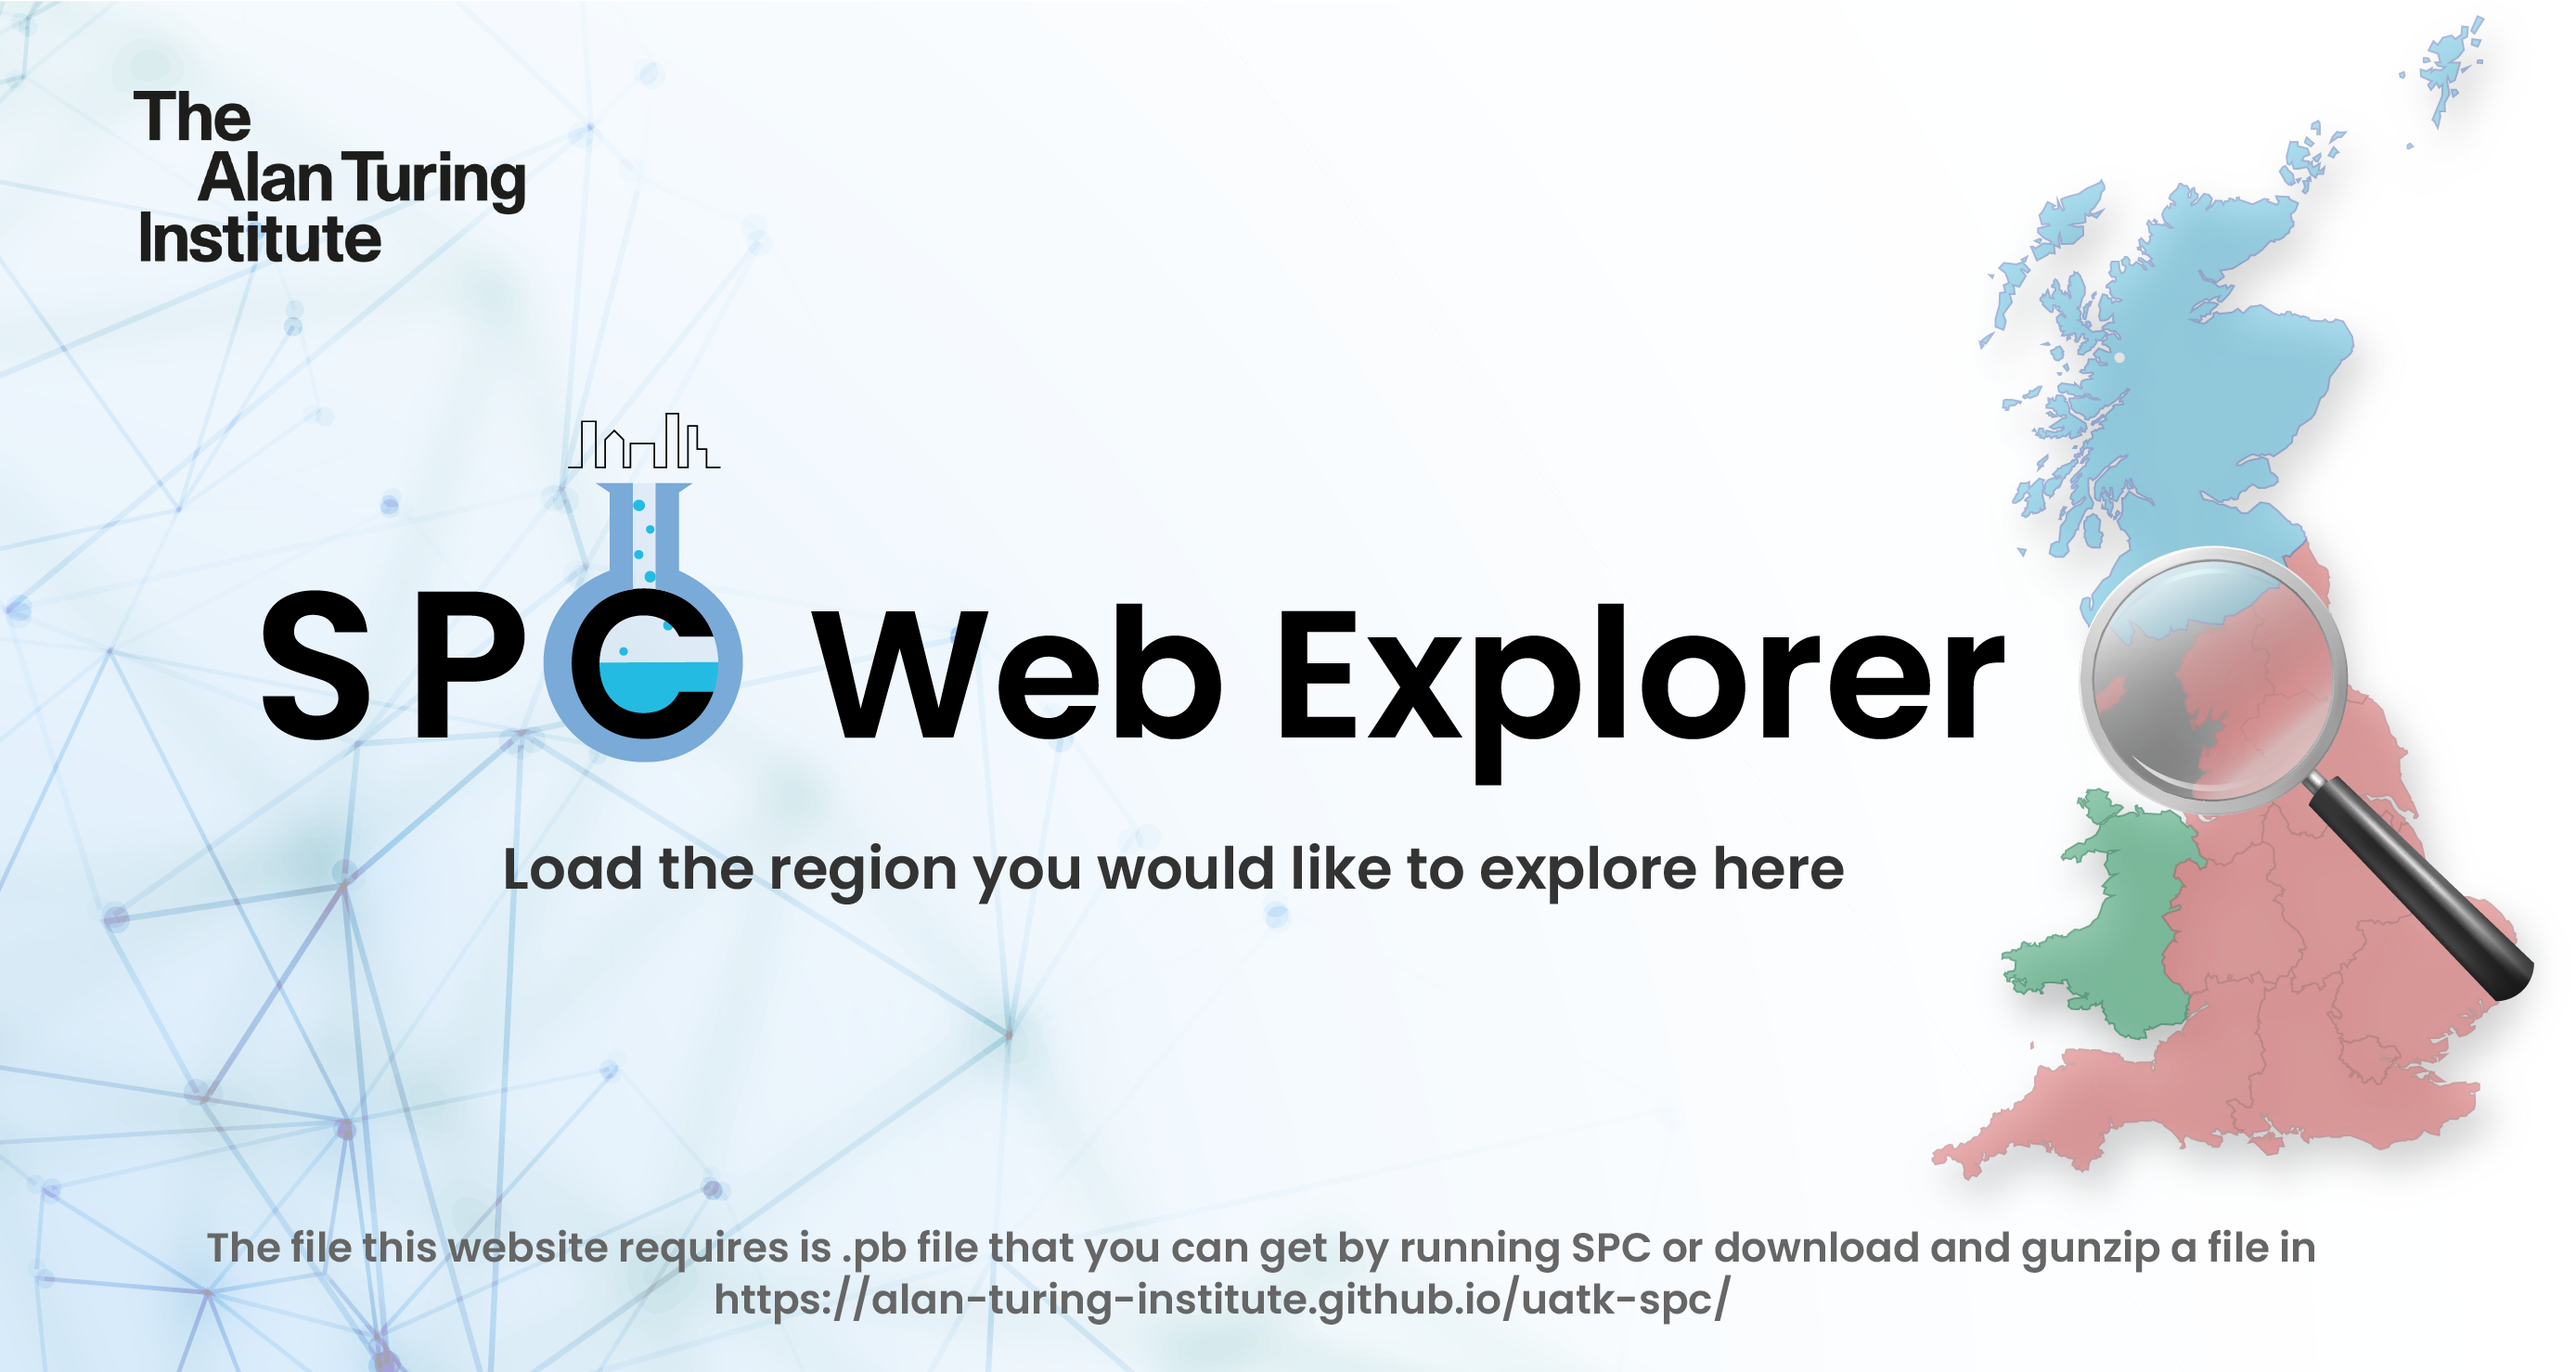
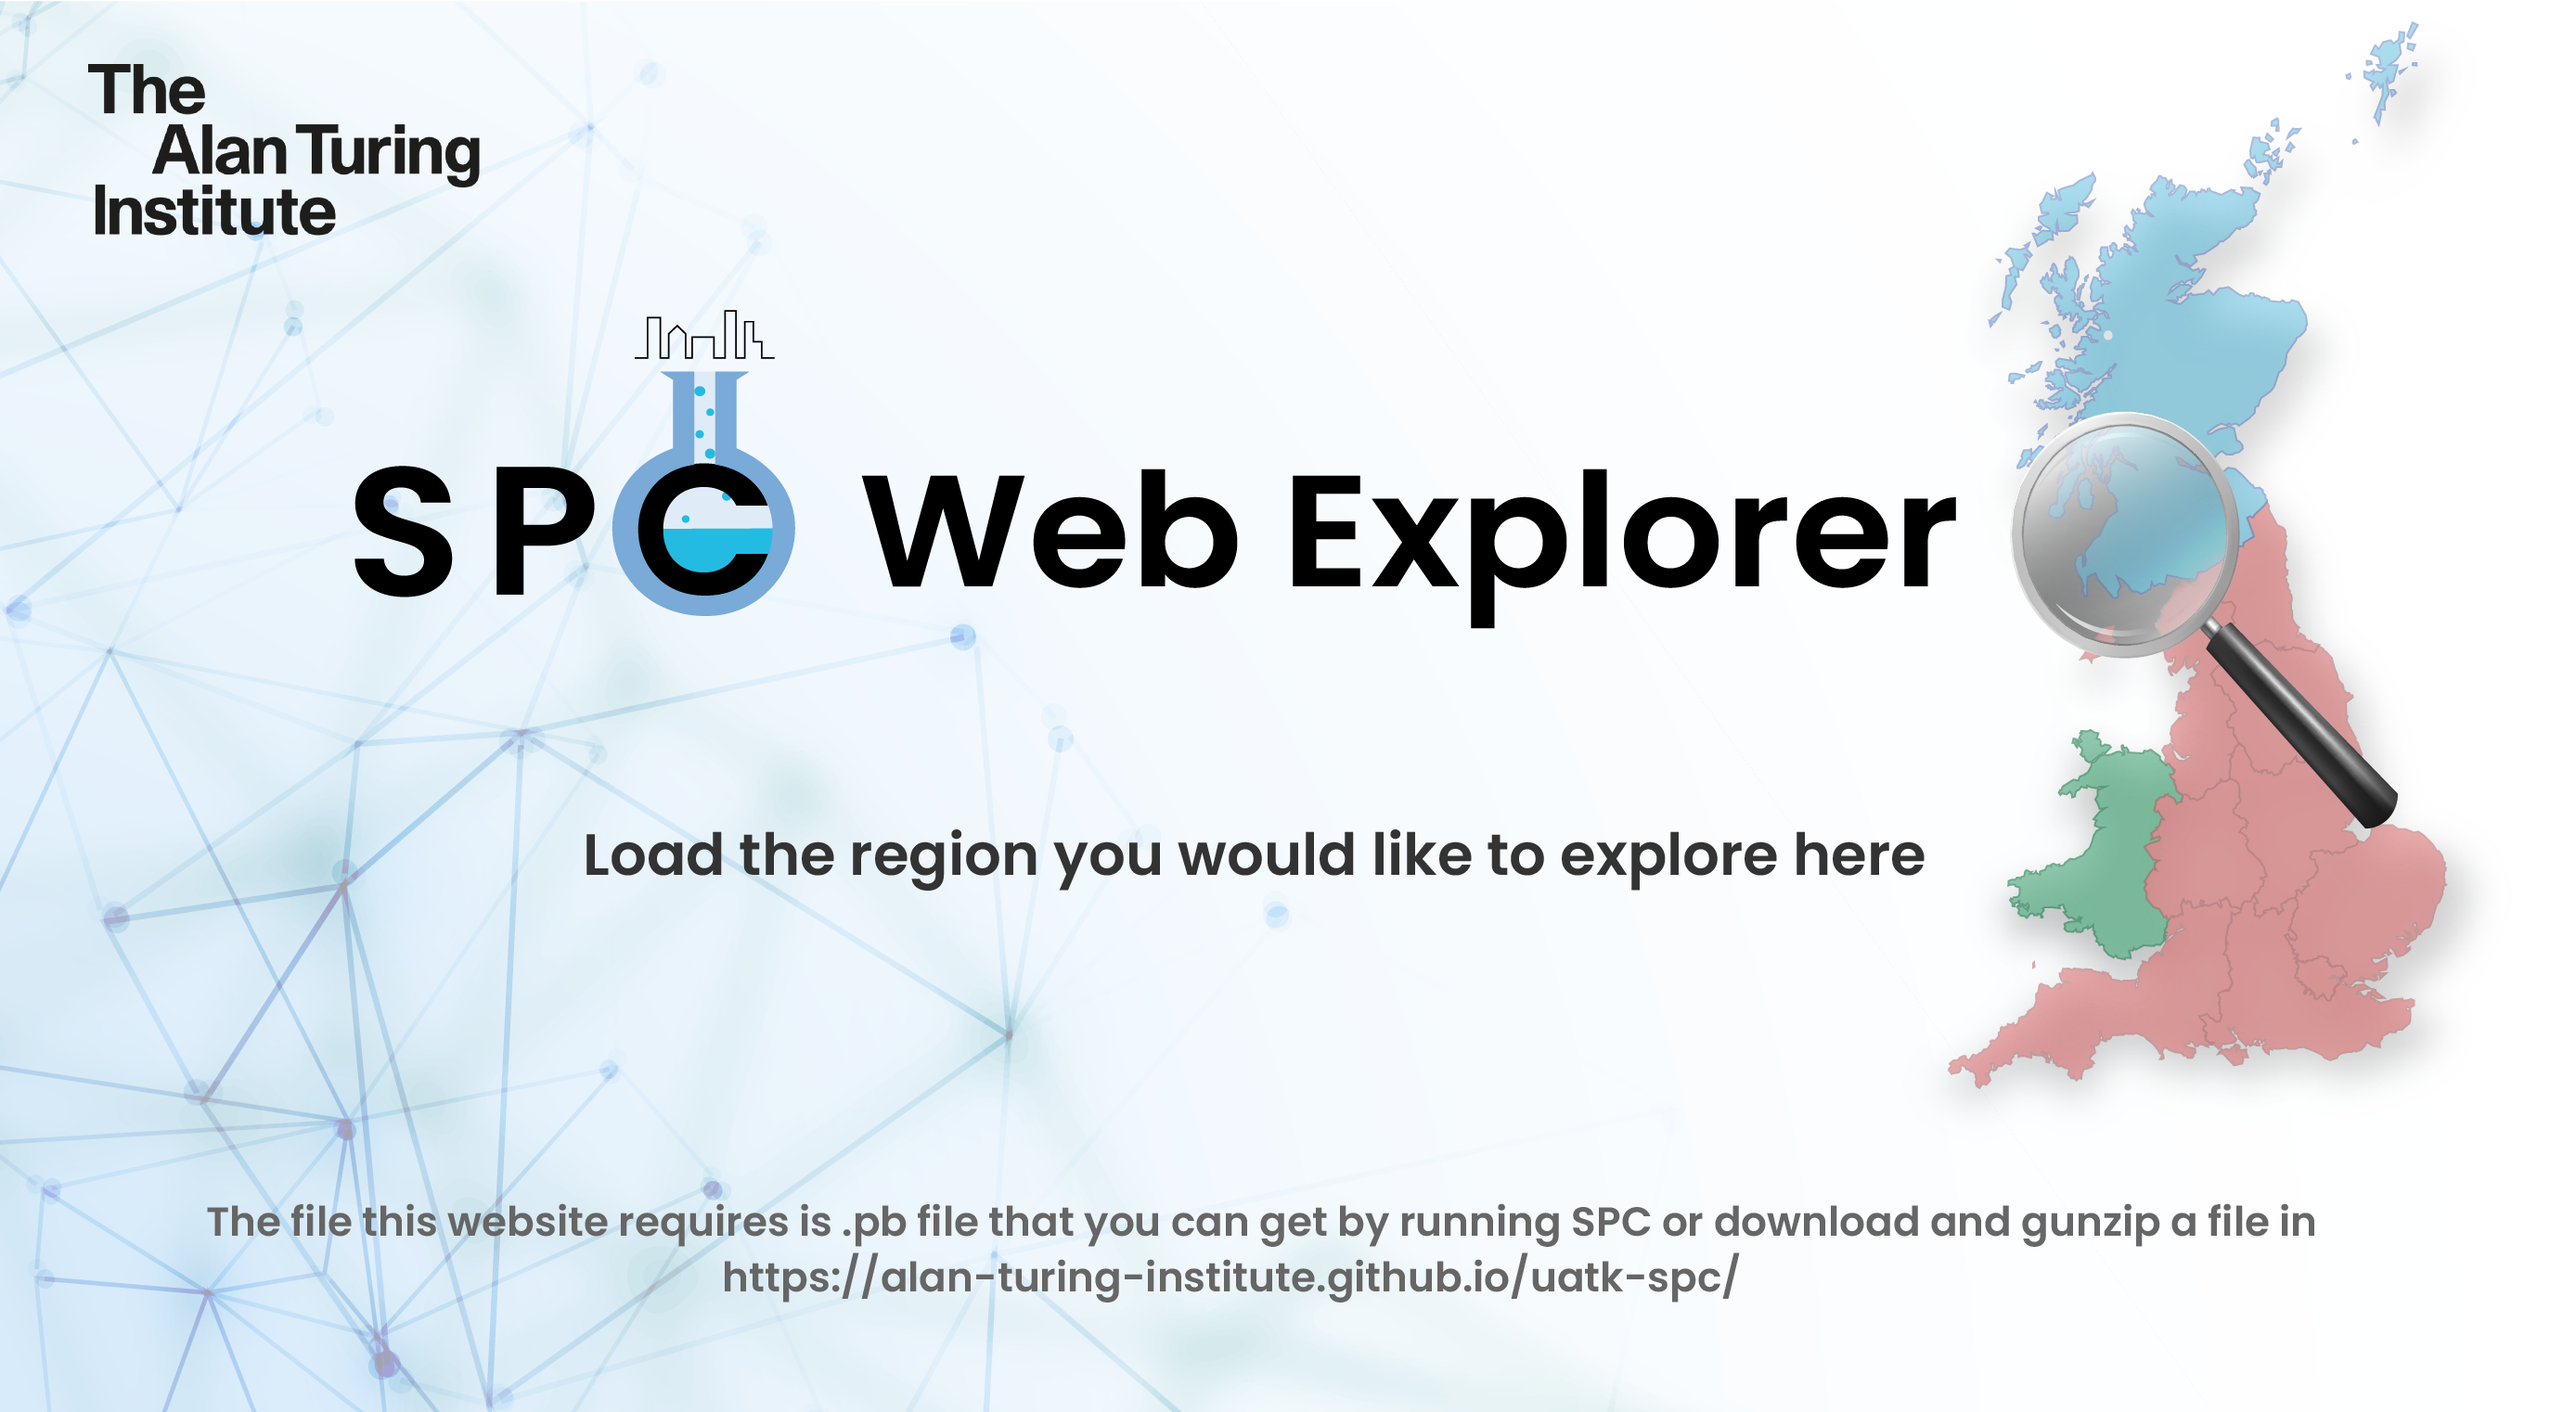
fixing the main page botton and image

diff --git a/web/components/FileLoader.svelte b/web/components/FileLoader.svelte
@@ -28,6 +28,16 @@
 </label>
 
 <style>
+
+  @font-face {
+          font-family: 'Poppins', sans-serif;
+          font-style: normal;
+          font-weight: 400,600;
+          font-display: swap;
+          src: local('Poppins Regular'), local('Poppins-SemiBold'), url(https://fonts.googleapis.com/css2?family=Poppins:wght@400..600&display=swap) format('woff2');
+          unicode-range: U+0000-00FF, U+0131, U+0152-0153, U+02BB-02BC, U+02C6, U+02DA, U+02DC, U+2000-206F, U+2074, U+20AC, U+2122, U+2191, U+2193, U+2212, U+2215, U+FEFF, U+FFFD;
+      }
+
   input[type="file"] {
     cursor: pointer;
 
@@ -41,14 +51,17 @@
   }
 
   button {
-    background-color: white;
+    background-color: #fff0;
+    outline-color: #fff0;
+    outline-color: invert;
   }
 
   .homepagePosition {
     position: absolute;
-    top: 65%;
-    right: 50%;
+    top: 650px;
+    right: 48%;
     text-align: center;
-    font-size: 28px;
+    font-size: 34px;
+    font-family: 'Poppins-SemiBold', sans-serif;
   }
 </style>
